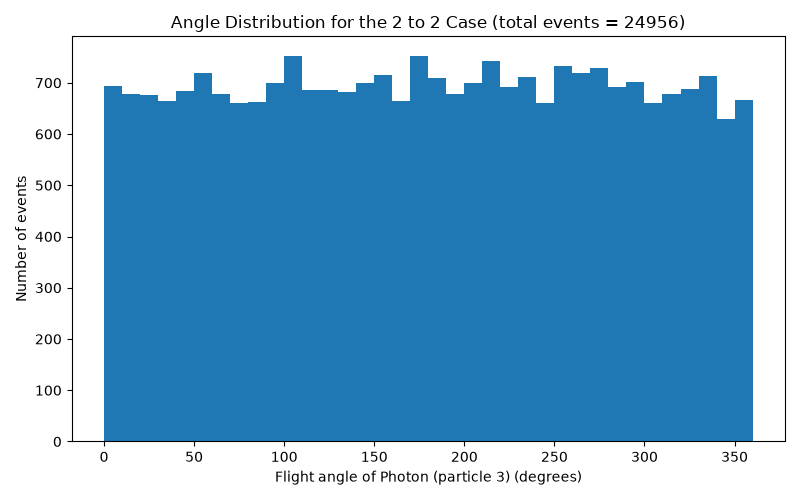
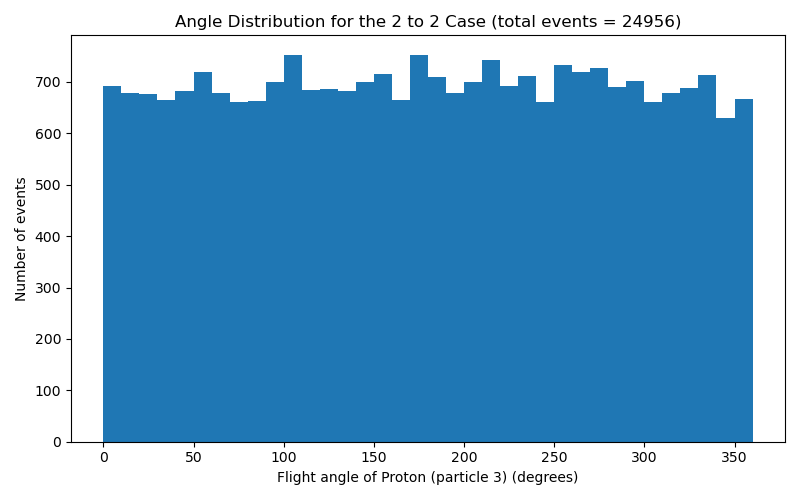
added a graph for E45 to compare with E3 (we were wondering why the graph for E3 was exponentially curving

diff --git a/graphing_2to3.py b/graphing_2to3.py
@@ -2,15 +2,16 @@ import matplotlib.pyplot as plt
 
 DATA_FILE = "events.txt"
 
-# In the 2 to 2 case the two particles are both protons (particle 3 and
-# particle 4). We keep them apart so each gets its own histogram.
-PARTICLE_LABELS = ["Proton (particle 3)", "Proton (particle 4)"]
+# In the 2 to 3 case the three particles are a photon (particle 3) and two
+# protons (particle 4 and particle 5). We keep them apart so each gets its own
+# histogram.
+PARTICLE_LABELS = ["Photon (particle 3)", "Proton (particle 4)", "Proton (particle 5)"]
 
 
-def read_2to2(filename, column):
-    # Return one list per particle for the 2 particle events.
+def read_2to3(filename, column):
+    # Return one list per particle for the 3 particle events.
     # column 1 is the energy and column 2 is the angle.
-    per_particle = [[], []]
+    per_particle = [[], [], []]
     n_particles = 0
     index = 0
     with open(filename) as f:
@@ -20,28 +21,28 @@ def read_2to2(filename, column):
                 n_particles = int(line.split(":")[1])
                 index = 0
             elif line and not line.startswith("___") and not line.startswith("Particle"):
-                # this is a particle row, keep it only if the event has 2 particles
-                if n_particles == 2:
+                # this is a particle row, keep it only if the event has 3 particles
+                if n_particles == 3:
                     parts = line.split()
                     per_particle[index].append(float(parts[column]))
                     index += 1
     return per_particle
 
 
-angles = read_2to2(DATA_FILE, column=2)
-total_events = len(angles[0])   # one entry per 2 to 2 event
-print("Total 2 to 2 events:", total_events)
+angles = read_2to3(DATA_FILE, column=2)
+total_events = len(angles[0])   # one entry per 2 to 3 event
+print("Total 2 to 3 events:", total_events)
 
 # One angle histogram per particle.
-for i in range(2):
+for i in range(3):
     plt.figure(figsize=(8, 5))
     plt.hist(angles[i], bins=36, range=(0, 360))   # 36 bins means 10 degrees each
 
     plt.xlabel(f"Flight angle of {PARTICLE_LABELS[i]} (degrees)")
     plt.ylabel("Number of events")
-    plt.title(f"Angle Distribution for the 2 to 2 Case (total events = {total_events})")
+    plt.title(f"Angle Distribution for the 2 to 3 Case (total events = {total_events})")
 
     plt.tight_layout()
-    filename = f"2to2_angle_particle{i + 3}.png"   # particle 3 and particle 4
+    filename = f"2to3_angle_particle{i + 3}.png"   # particle 3, 4 and 5
     plt.savefig(filename)
     print("Histogram saved to", filename)

diff --git a/energy_graphing_2to3.py b/energy_graphing_2to3.py
@@ -1,0 +1,54 @@
+import matplotlib.pyplot as plt
+
+#draw the graph such that instead of coloring the histogram bars, 
+#we only draw the top line of the bars. We stack 3 graphs on top of each 
+#other for 1 graph. 
+#under the graph should be a ratio graph that shows the ratio
+#between n4/n3, n5/n3, and n5/n4.
+
+DATA_FILE = "events.txt"
+
+# In the 2 to 3 case the three particles are a photon (particle 3) and two
+# protons (particle 4 and particle 5). We keep them apart so each gets its own
+# histogram.
+PARTICLE_LABELS = ["Photon (particle 3)", "Proton (particle 4)", "Proton (particle 5)"]
+
+
+def read_2to3(filename, column):
+    # Return one list per particle for the 3 particle events.
+    # column 1 is the energy and column 2 is the angle.
+    per_particle = [[], [], []]
+    n_particles = 0
+    index = 0
+    with open(filename) as f:
+        for line in f:
+            line = line.strip()
+            if line.startswith("N_Particles"):
+                n_particles = int(line.split(":")[1])
+                index = 0
+            elif line and not line.startswith("___") and not line.startswith("Particle"):
+                # this is a particle row, keep it only if the event has 3 particles
+                if n_particles == 3:
+                    parts = line.split()
+                    per_particle[index].append(float(parts[column]))
+                    index += 1
+    return per_particle
+
+
+energies = read_2to3(DATA_FILE, column=1)
+total_events = len(energies[0])   # one entry per 2 to 3 event
+print("Total 2 to 3 events:", total_events)
+
+# One energy histogram per particle.
+for i in range(3):
+    plt.figure(figsize=(8, 5))
+    plt.hist(energies[i], bins=40, range=(0, 13.6))   # 13.6 TeV is the full energy
+
+    plt.xlabel(f"Energy of {PARTICLE_LABELS[i]} (TeV)")
+    plt.ylabel("Number of events")
+    plt.title(f"Energy Distribution for the 2 to 3 Case (total events = {total_events})")
+
+    plt.tight_layout()
+    filename = f"2to3_energy_particle{i + 3}.png"   # particle 3, 4 and 5
+    plt.savefig(filename)
+    print("Histogram saved to", filename)

diff --git a/energy_graphing.py b/energy_graphing.py
@@ -2,9 +2,9 @@ import matplotlib.pyplot as plt
 
 DATA_FILE = "events.txt"
 
-# In the 2 to 2 case the two particles are a photon (particle 3) and a proton
-# (particle 4). We keep them apart so each gets its own histogram.
-PARTICLE_LABELS = ["Photon (particle 3)", "Proton (particle 4)"]
+# In the 2 to 2 case the two particles are both protons (particle 3 and
+# particle 4). We keep them apart so each gets its own histogram.
+PARTICLE_LABELS = ["Proton (particle 3)", "Proton (particle 4)"]
 
 
 def read_2to2(filename, column):
